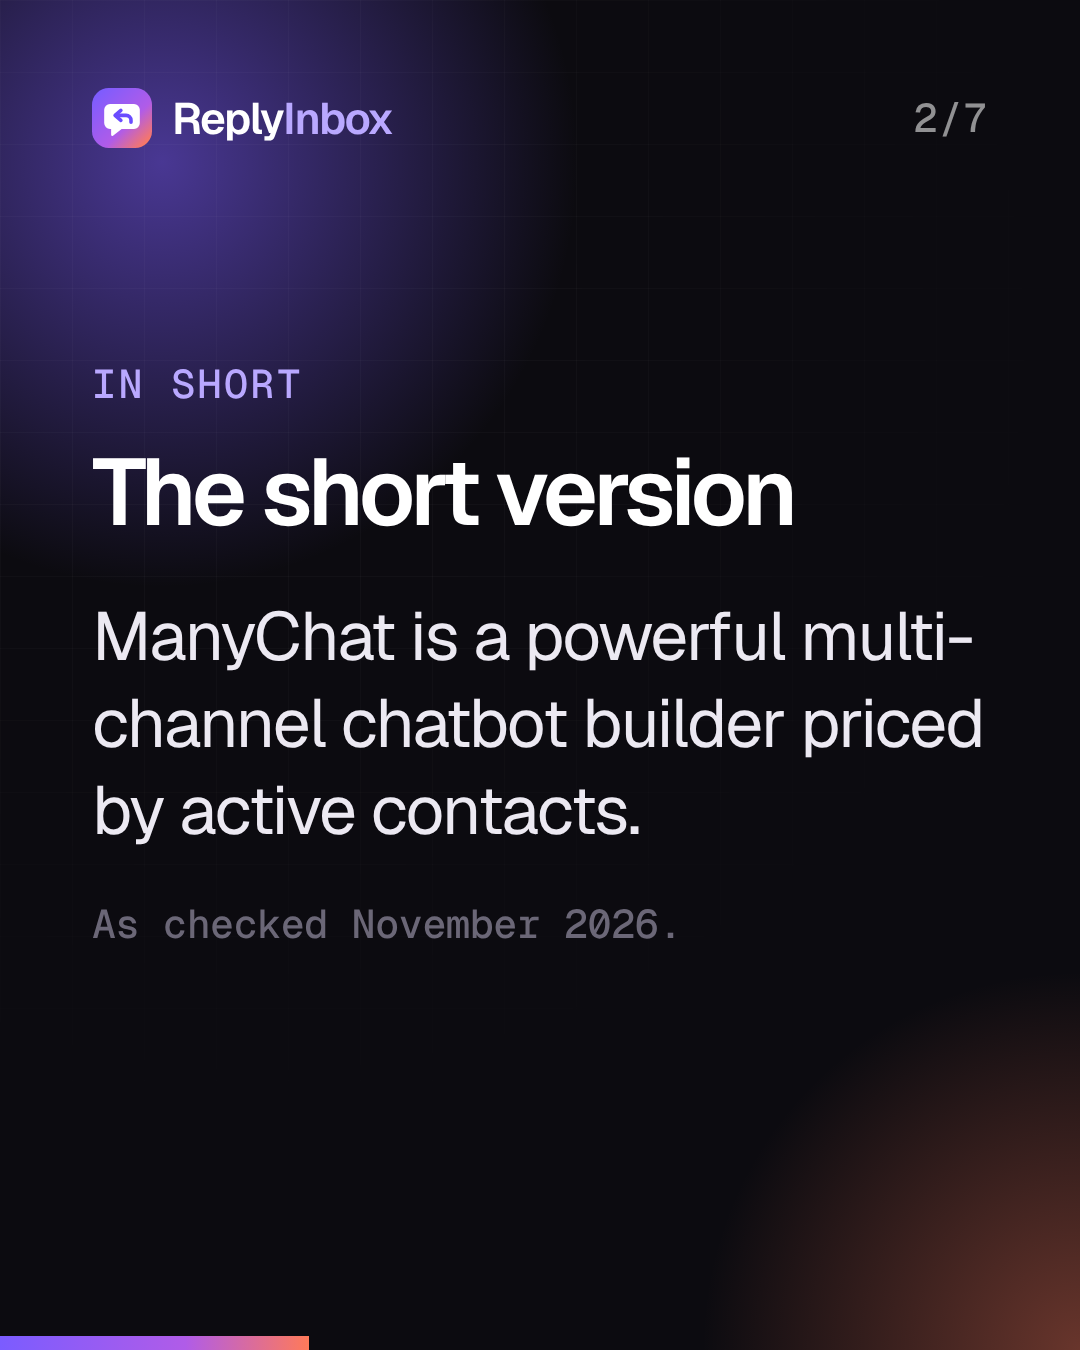
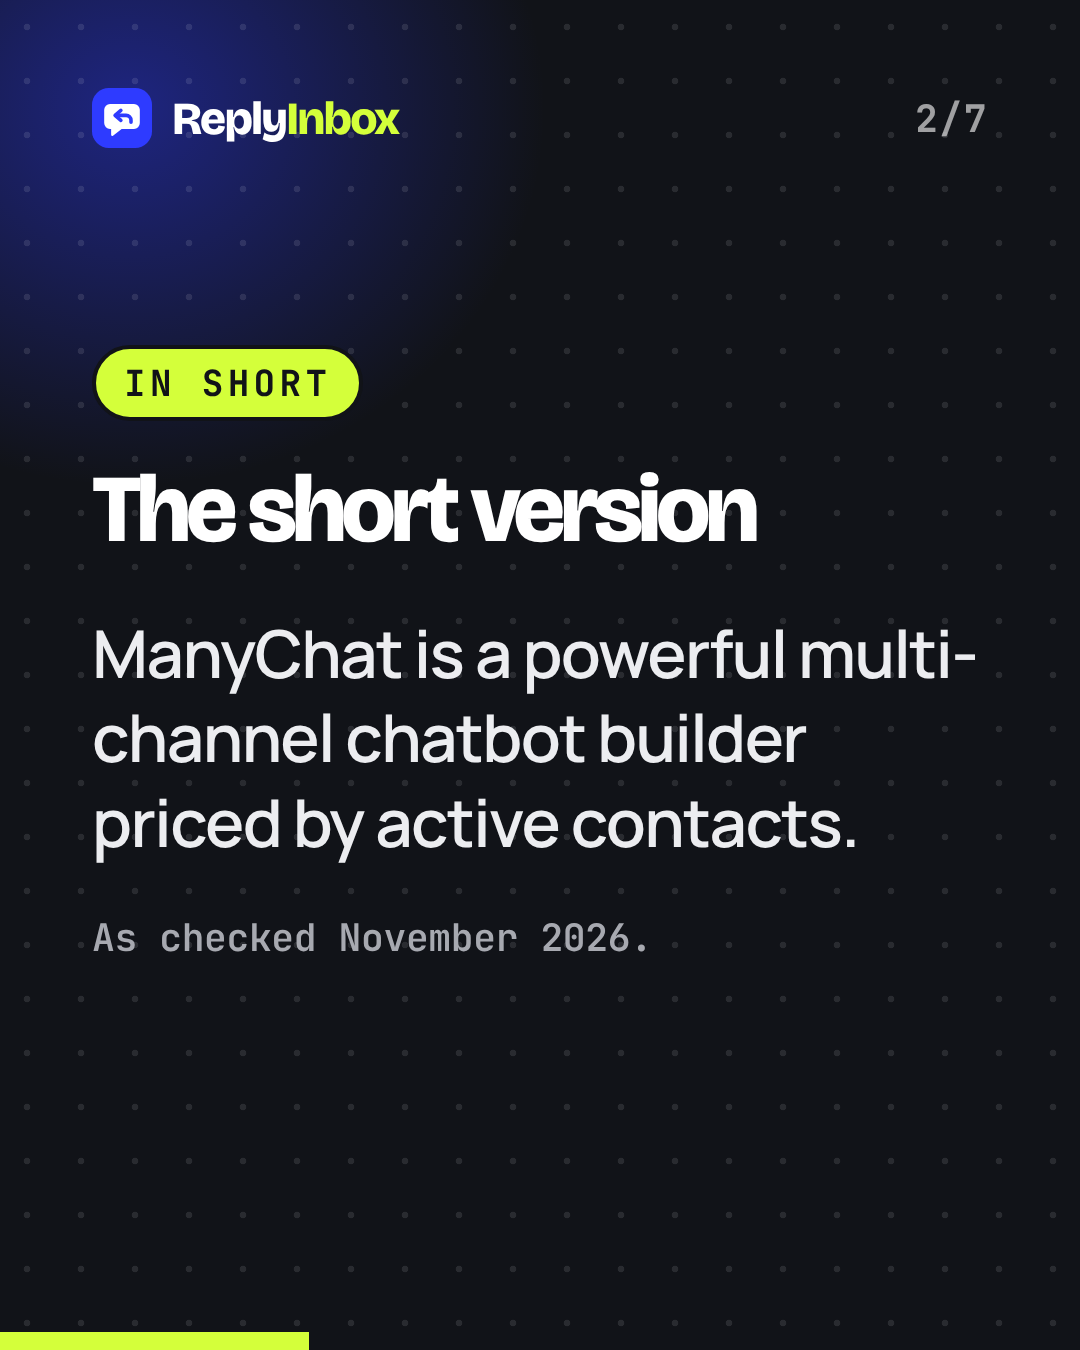
Carousels: new ReplyInbox brand; render the 3 pinned posts
tools/carousels.py slides now use the brand: ink/paper with dot grids,
volt highlighter on the hook, volt kicker pills, numbered steps and chat
bubbles with ink outlines and hard shadows, a cobalt CTA slide with the
keyword in a volt box; Bricolage / Manrope / JetBrains Mono.
Rendered comment-to-dm, ai-dm-agent and manychat for @replyinbox.in.

Claude-Session: https://claude.ai/code/session_014ELRRdb5ho5T1cS4aiM1G5

diff --git a/saas/tools/carousels.py b/saas/tools/carousels.py
@@ -270,7 +270,7 @@ def section_slides(heading, body_html, n):
 
 
 def title_hook(title, override=None):
-    """(plain, accent) for the hook headline; accent is set in Instrument Serif italic."""
+    """(plain, accent) for the hook headline; accent gets the volt highlighter."""
     if override:
         return override
     t = no_parens(clean(title))
@@ -500,48 +500,55 @@ def logo_mark(size, uid):
 CSS = """
 *{box-sizing:border-box;margin:0;padding:0}
 html,body{width:1080px;height:1350px;overflow:hidden}
-body{font-family:Geist,Inter,system-ui,sans-serif;-webkit-font-smoothing:antialiased}
+body{font-family:Manrope,Inter,system-ui,sans-serif;-webkit-font-smoothing:antialiased}
 .s{position:relative;width:1080px;height:1350px;padding:88px 92px 0;display:flex;flex-direction:column;overflow:hidden}
-.ink{background:#0C0B10;color:#fff}.paper{background:#F7F5F0;color:#0C0B10}
-.grad{background:linear-gradient(140deg,#7B5CFF 0%,#B05CE8 55%,#FF7A59 100%);color:#fff}
-.glow{position:absolute;inset:0;background:radial-gradient(55% 45% at 15% 12%,rgba(123,92,255,.55),transparent 70%),radial-gradient(50% 40% at 100% 100%,rgba(255,122,89,.38),transparent 70%)}
-.grid{position:absolute;inset:0;opacity:.6;background-image:linear-gradient(rgba(255,255,255,.045) 1px,transparent 1px),linear-gradient(90deg,rgba(255,255,255,.045) 1px,transparent 1px);background-size:72px 72px;-webkit-mask-image:radial-gradient(90% 70% at 25% 25%,#000 30%,transparent 85%)}
-.paper .grid{background-image:linear-gradient(rgba(12,11,16,.05) 1px,transparent 1px),linear-gradient(90deg,rgba(12,11,16,.05) 1px,transparent 1px)}
+.ink{background:#111318;color:#fff}.paper{background:#F5F4EF;color:#111318}
+.grad{background:#2E3BFF;color:#fff}
+.glow{position:absolute;inset:0;background:radial-gradient(55% 40% at 12% 8%,rgba(46,59,255,.45),transparent 70%)}
+.paper .glow,.grad .glow{display:none}
+.grid{position:absolute;inset:0;background:radial-gradient(rgba(255,255,255,.10) 3px,transparent 3.6px) 0 0/54px 54px}
+.paper .grid{background:radial-gradient(rgba(17,19,24,.13) 3px,transparent 3.6px) 0 0/54px 54px}
+.grad .grid{background:radial-gradient(rgba(255,255,255,.14) 3px,transparent 3.6px) 0 0/54px 54px}
 .top{position:relative;display:flex;align-items:center;justify-content:space-between}
-.logo{display:flex;align-items:center;gap:20px;font-weight:600;font-size:44px;letter-spacing:-.035em}
-.logo span{color:#6A4CFF}.ink .logo span,.grad .logo span{color:#B9A8FF}.grad .logo span{color:#fff;opacity:.8}
-.count{font:500 40px "Geist Mono",monospace;opacity:.55;letter-spacing:.02em}
+.logo{display:flex;align-items:center;gap:20px;font-family:"Bricolage Grotesque",Manrope,sans-serif;font-weight:800;font-size:46px;letter-spacing:-.04em}
+.logo span{color:#2E3BFF}.ink .logo span,.grad .logo span{color:#D4FF3A}
+.count{font:700 38px "JetBrains Mono",monospace;opacity:.6;letter-spacing:.04em}
 .main{position:relative;flex:1;display:flex;flex-direction:column;justify-content:center;padding-bottom:40px}
-.kicker{font:500 40px "Geist Mono",monospace;text-transform:uppercase;letter-spacing:.06em;color:#6A4CFF;margin-bottom:34px}
-.ink .kicker{color:#B9A8FF}
-h1{font-weight:600;font-size:112px;line-height:1.0;letter-spacing:-.05em}
-h2{font-weight:600;font-size:94px;line-height:1.04;letter-spacing:-.045em;margin-bottom:52px}
-em{font-family:"Instrument Serif",serif;font-weight:400;font-style:italic;letter-spacing:-.01em;background:linear-gradient(120deg,#8B6CFF,#C06BE6 55%,#FF8A6A);-webkit-background-clip:text;background-clip:text;color:transparent;padding-right:.08em}
-.sub{margin-top:44px;font-size:54px;line-height:1.3;color:#B4B0C0;letter-spacing:-.02em}
-.body{font-size:68px;line-height:1.28;letter-spacing:-.025em}
-.text{color:#2A2733}.ink .text{color:#ECE9F2}
+.kicker{align-self:flex-start;font:700 36px "JetBrains Mono",monospace;text-transform:uppercase;letter-spacing:.12em;color:#111318;background:#D4FF3A;border:4px solid #111318;border-radius:999px;padding:10px 28px;margin-bottom:40px}
+h1,h2,.cta-pre,.cta{font-family:"Bricolage Grotesque",Manrope,sans-serif;font-weight:800}
+h1{font-size:118px;line-height:.98;letter-spacing:-.055em}
+h2{font-size:96px;line-height:1.02;letter-spacing:-.05em;margin-bottom:52px}
+em{font-style:normal;background:#D4FF3A;color:#111318;padding:0 .12em;-webkit-box-decoration-break:clone;box-decoration-break:clone}
+.sub{margin-top:44px;font-size:52px;line-height:1.3;color:#A7A9B0;letter-spacing:-.02em;font-weight:600}
+.paper .sub{color:#5E6068}
+.body{font-size:66px;line-height:1.28;letter-spacing:-.025em;font-weight:600}
+.text{color:#2A2C33}.ink .text{color:#ECEDF0}
 ul.l{list-style:none;display:flex;flex-direction:column;gap:40px}
-ul.l li{display:flex;gap:30px;align-items:flex-start;font-size:62px;line-height:1.22;letter-spacing:-.025em}
-.mk{flex:none;width:84px;height:84px;border-radius:24px;display:flex;align-items:center;justify-content:center;font:600 44px "Geist Mono",monospace;color:#fff;background:linear-gradient(140deg,#7B5CFF,#B05CE8 60%,#FF7A59);margin-top:-8px}
-.dot{flex:none;width:28px;height:28px;border-radius:50%;margin-top:24px;background:linear-gradient(140deg,#7B5CFF,#FF7A59)}
-.them .dot{background:#9C98A8}
-.chat{display:flex;flex-direction:column;gap:30px}
-.b{max-width:90%;padding:32px 40px;border-radius:40px;font-size:56px;line-height:1.28;letter-spacing:-.02em}
-.b small{display:block;font:500 40px "Geist Mono",monospace;opacity:.7;margin-bottom:8px;letter-spacing:.04em}
-.b.in{background:#fff;border:2px solid #E6E1D6;align-self:flex-start;border-bottom-left-radius:12px}
-.b.out{background:#6A4CFF;color:#fff;align-self:flex-end;border-bottom-right-radius:12px}
-.note{margin-top:44px;font:500 40px/1.3 "Geist Mono",monospace;color:#6B6777;letter-spacing:-.01em}
-.foot{position:relative;display:flex;align-items:center;justify-content:space-between;height:150px;font:500 40px "Geist Mono",monospace;opacity:.6}
-.bar{position:absolute;left:0;bottom:0;height:14px;background:linear-gradient(90deg,#7B5CFF,#B05CE8 60%,#FF7A59)}
-.cta-pre{font-weight:600;font-size:96px;letter-spacing:-.045em}
-.kw{display:inline-block;margin:36px 0 40px;padding:26px 52px;border-radius:36px;background:#fff;color:#4B2FE6;font:600 128px "Geist Mono",monospace;letter-spacing:-.02em;box-shadow:0 30px 80px -20px rgba(40,10,90,.45);white-space:nowrap}
-.cta{font-weight:600;font-size:84px;line-height:1.05;letter-spacing:-.045em}
-.cta em{background:none;color:#fff;-webkit-background-clip:initial;background-clip:initial}
-.follow{margin-top:60px;font:500 44px "Geist Mono",monospace;opacity:.85}
+ul.l li{display:flex;gap:30px;align-items:flex-start;font-size:60px;line-height:1.22;letter-spacing:-.025em;font-weight:600}
+.mk{flex:none;width:88px;height:88px;border-radius:24px;display:flex;align-items:center;justify-content:center;font:700 44px "JetBrains Mono",monospace;color:#111318;background:#D4FF3A;border:4px solid #111318;box-shadow:6px 6px 0 #111318;margin-top:-8px}
+.ink .mk{box-shadow:6px 6px 0 #2E3BFF}
+.dot{flex:none;width:30px;height:30px;border-radius:50%;margin-top:24px;background:#2E3BFF;border:4px solid #111318}
+.them .dot{background:#E6E5DE}
+.chat{display:flex;flex-direction:column;gap:34px}
+.b{max-width:90%;padding:30px 40px;border-radius:40px;font-size:54px;line-height:1.28;letter-spacing:-.02em;font-weight:600;border:4px solid #111318}
+.b small{display:block;font:700 36px "JetBrains Mono",monospace;opacity:.75;margin-bottom:8px;letter-spacing:.06em}
+.b.in{background:#fff;color:#111318;align-self:flex-start;border-bottom-left-radius:12px;box-shadow:8px 8px 0 #111318}
+.b.out{background:#2E3BFF;color:#fff;align-self:flex-end;border-bottom-right-radius:12px;box-shadow:8px 8px 0 #111318}
+.ink .b{border-color:#fff}.ink .b.in{box-shadow:8px 8px 0 #2E3BFF}.ink .b.out{box-shadow:8px 8px 0 #D4FF3A}
+.note{margin-top:48px;font:600 38px/1.35 "JetBrains Mono",monospace;color:#5E6068;letter-spacing:-.01em}
+.ink .note{color:#A7A9B0}
+.foot{position:relative;display:flex;align-items:center;justify-content:space-between;height:150px;font:700 38px "JetBrains Mono",monospace;opacity:.7}
+.bar{position:absolute;left:0;bottom:0;height:18px;background:#2E3BFF}
+.ink .bar{background:#D4FF3A}.grad .bar{background:#D4FF3A}
+.cta-pre{font-size:96px;letter-spacing:-.05em}
+.kw{display:inline-block;margin:40px 0 44px;padding:24px 54px;border-radius:36px;background:#D4FF3A;color:#111318;font:700 124px "JetBrains Mono",monospace;letter-spacing:-.02em;border:6px solid #111318;box-shadow:14px 14px 0 #111318;white-space:nowrap}
+.cta{font-size:84px;line-height:1.05;letter-spacing:-.05em}
+.cta em{background:none;color:#D4FF3A;padding:0}
+.follow{margin-top:60px;font:700 42px "JetBrains Mono",monospace;opacity:.9}
 """
 
-FONTS = ('<link href="https://fonts.googleapis.com/css2?family=Geist:wght@400;500;600&family=Geist+Mono:wght@500;600'
-         '&family=Instrument+Serif:ital@1&display=block" rel="stylesheet">')
+FONTS = ('<link href="https://fonts.googleapis.com/css2?family=Bricolage+Grotesque:opsz,wght@12..96,700;12..96,800'
+         '&family=JetBrains+Mono:wght@500;600;700&family=Manrope:wght@500;600;700;800&display=block" rel="stylesheet">')
 
 
 def e(text):
